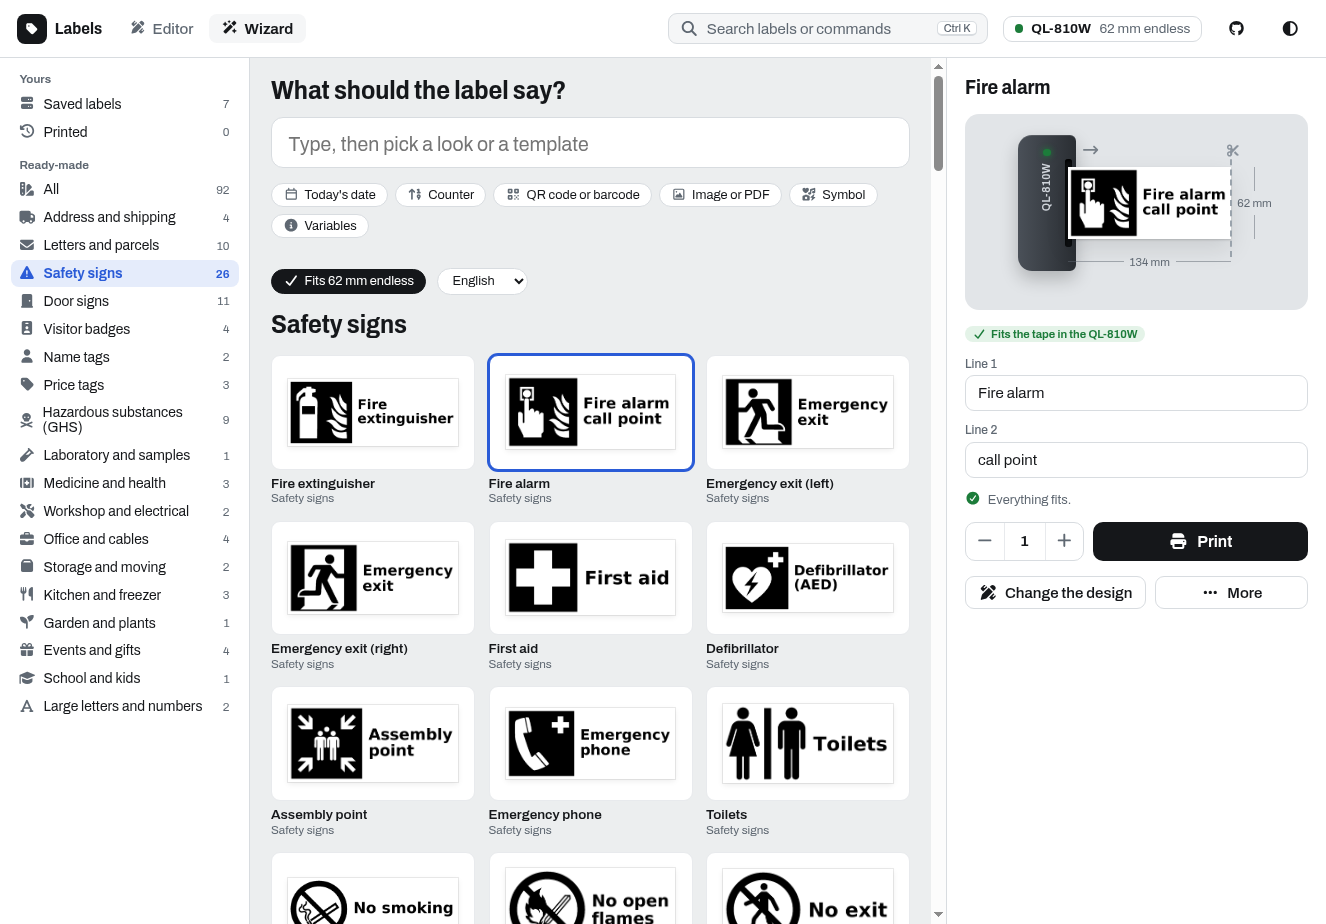
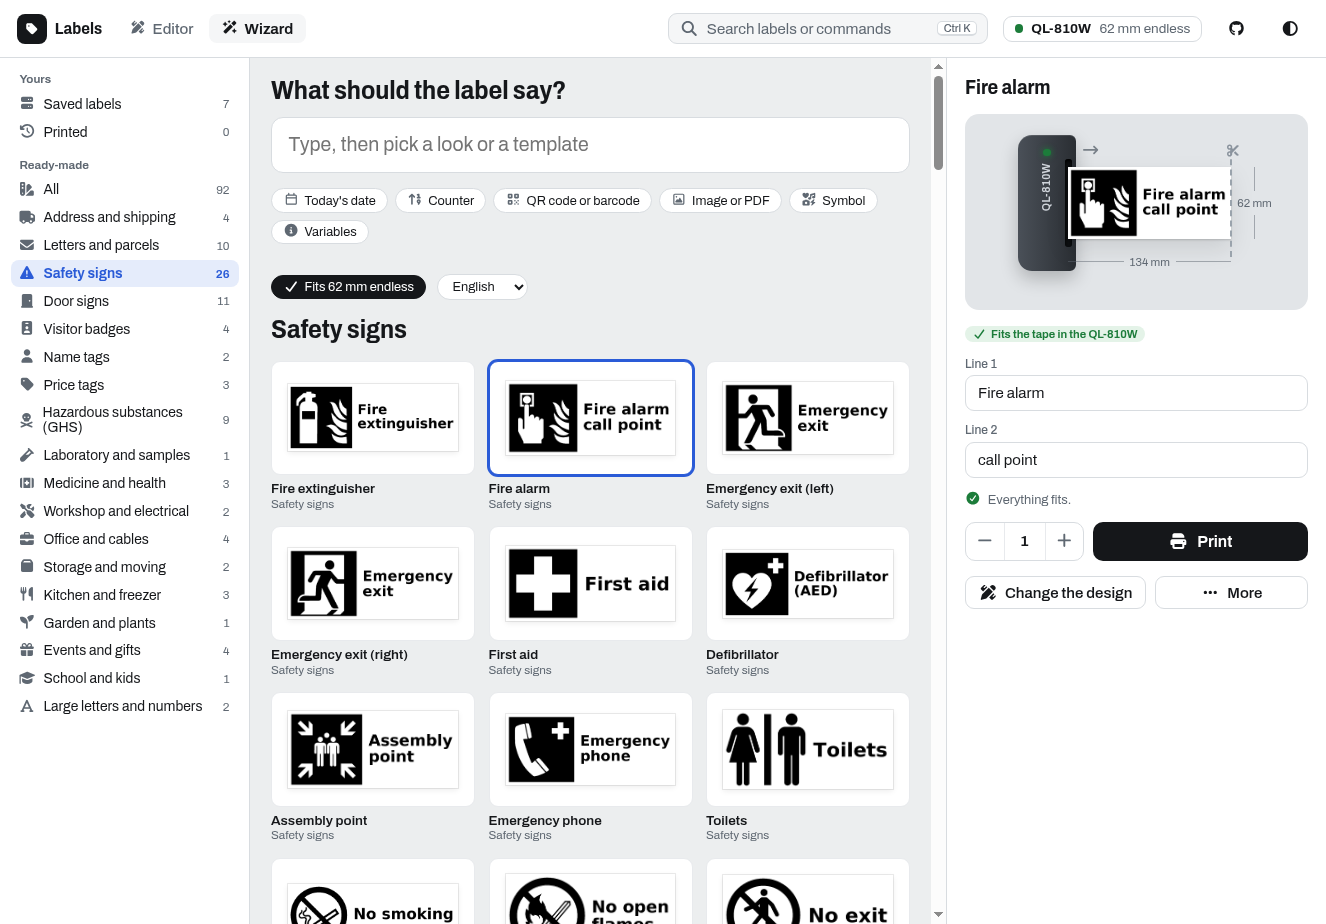
Show the direction of the text, red parts and round labels as printed
- The switch "Text runs across the tape / Along" was wrong on labels
  that are wider than long, e.g. 62 x 29 mm, and on round labels. Taking
  such a label in between turned the text on endless tape.
- Red text and frames on tape without red were shown red, but print
  black. The preview shows them black and says so, the line keeps red
  for black and red tape.
- Round labels are shown round.
- With a code alone the settings for text are off, the switch speaks of
  the code.
- The wizard counts printed and saved labels right away, and its text
  field keeps the height of its lines. On phones the printer panel
  closes from the right edge, and on short labels the arrow keeps clear
  of the scissors.

diff --git a/app/static/designer/designer.js b/app/static/designer/designer.js
@@ -223,9 +223,16 @@ function formFor(design, copies = 1, forPrint = false) {
         if (k === 'text' || k === 'image' || k === 'more_images' || k === 'fields') continue;
         fd.append(k, typeof v === 'boolean' ? (v ? '1' : '0') : String(v));
     }
+    // Without red on the tape red parts print black, the preview shows that
+    const red = redTape(design);
+    if (!red) {
+        fd.set('border_color', 'black');
+        fd.set('print_color', 'black');
+        if (['red_and_black', 'colored'].includes(design.image_mode)) fd.set('image_mode', 'black_and_white');
+    }
     fd.append('text', JSON.stringify(design.text.map(l => ({
         text: l.text, size: String(l.size), font: l.font, align: l.align, inverted: !!l.inverted,
-        checkbox: !!l.checkbox, color: l.color || 'black', line_spacing: String(l.line_spacing || '100')
+        checkbox: !!l.checkbox, color: red ? l.color || 'black' : 'black', line_spacing: String(l.line_spacing || '100')
     }))));
     if (design.image && design.print_type === 'image') {
         // The preview shows the first image, all of them are printed
@@ -429,13 +436,28 @@ const saveHistory = () => {
     store('designer_history', S.history);
 };
 
-// Endless labels run along the tape when rotated, die-cut labels are
-// landscape (along the tape) in the standard orientation
+// Wide labels, e.g. for a code next to text: endless tape rotated, die-cut
+// labels in the standard orientation, which the server makes landscape
 const isDieCut = id => !!SIZES[id] && !isEndless(SIZES[id]);
-const isAlong = d => d.orientation === (isDieCut(d.label_size) ? 'standard' : 'rotated');
-function setAlong(d, along) {
-    d.orientation = along === isDieCut(d.label_size) ? 'standard' : 'rotated';
+function setWide(d, wide) {
+    d.orientation = wide === isDieCut(d.label_size) ? 'standard' : 'rotated';
     return d;
+}
+// Whether the text runs along the tape, as the editor shows it: standard
+// puts it along the longer side of the label, which is across the tape on
+// endless tape and e.g. on 62 x 29 mm labels
+const longAlongTape = id => !!SIZES[id] && SIZES[id].tape[1] > SIZES[id].tape[0];
+const runsAlong = d => (d.orientation === 'standard') === longAlongTape(d.label_size);
+function setRunsAlong(d, along) {
+    d.orientation = along === longAlongTape(d.label_size) ? 'standard' : 'rotated';
+    return d;
+}
+// Another label size: die-cut labels start wide, on endless tape the text
+// keeps its direction
+function setSize(d, id) {
+    const along = runsAlong(d);
+    d.label_size = id;
+    return isDieCut(id) ? setWide(d, true) : setRunsAlong(d, along);
 }
 
 function fitsTape(sizeId) {
@@ -512,9 +534,7 @@ async function printJob(job) {
         const choice = await tapeGuard(job);
         if (choice === 'cancel') return false;
         if (choice === 'adapt') {
-            // Die-cut labels are landscape by default
-            const along = isDieCut(S.tape) || isAlong(job.design);
-            job = Object.assign({}, job, { design: setAlong(Object.assign(clone(job.design), { label_size: S.tape }), along) });
+            job = Object.assign({}, job, { design: setSize(clone(job.design), S.tape) });
         }
     }
     const entry = {
@@ -524,6 +544,7 @@ async function printJob(job) {
     };
     S.history.unshift(entry);
     saveHistory();
+    updateCounts();
     toast(`Printing ${entry.copies} ${entry.copies === 1 ? 'label' : 'labels'}...`);
     try {
         const r = await post('/print', formFor(fillBlanks(job.design, job.values, false), entry.copies, true));
@@ -636,6 +657,14 @@ async function loadSaved() {
         const data = await r.json();
         S.saved = (data.files || []).map(f => ({ name: f.name, title: f.title || f.name.replace(/\.json$/i, '').replace(/[-_]/g, ' '), size: f.label_size_id, mtime: f.mtime }));
     } catch (e) { S.saved = []; }
+    updateCounts();
+}
+// The numbers next to "Saved labels" and "Printed" in the wizard
+function updateCounts() {
+    for (const [cat, n] of [['saved', S.saved.length], ['printed', S.history.length]]) {
+        const el = $(`.lib-nav [data-cat="${cat}"] .n`);
+        if (el) el.textContent = n;
+    }
 }
 // The file name the server gives a label (like werkzeug's secure_filename)
 function serverName(title) {
@@ -830,7 +859,10 @@ async function showOnStage(el, design, values, onWarning, blank = false) {
     const maxW = Math.max(140, box.width - 110 - (side ? 70 : 0)), maxH = Math.max(110, Math.min(440, window.innerHeight * .5) - (side ? 0 : 60));
     const k = Math.min(0.85, maxW / w, maxH / h);
     const dw = Math.round(w * k), dh = Math.round(h * k);
-    el.className = 'stage' + (side ? ' side' : '') + (isEndless(size) ? '' : ' diecut');
+    // Short labels keep the arrow clear of the scissors at the cut
+    const short = side ? dw : dh;
+    el.className = 'stage' + (side ? ' side' : '') + (isEndless(size) ? '' : ' diecut') + (size.form === 'round_die_cut' ? ' round' : '')
+        + (short < 30 ? ' tiny' : short < 50 ? ' short' : '');
     // The front of the printer with its exit slot, its name and status light
     const st = printerState(S.printer);
     const led = `<span class="led ${st.cls}" title="${esc(st.text)}"></span>`;
@@ -853,6 +885,9 @@ function layoutProblem(d) {
     if (d && size && !isEndless(size) && d.print_type === 'qrcode_text' && Math.min(size.dots[0], size.dots[1]) < 600) {
         return 'On this die-cut label the text gets no room next to the code. Use endless tape or a larger label.';
     }
+    const redParts = (d.print_type !== 'qrcode' && d.text.some(l => l.color === 'red')) || (d.border_color === 'red' && frameOf(d) !== 'none')
+        || (d.print_type === 'image' && ['red_and_black', 'colored'].includes(d.image_mode));
+    if (redParts && !redTape(d)) return 'This tape has no red, the red parts print black.';
     return '';
 }
 
@@ -900,7 +935,7 @@ const LOOKS = [
             // Without content of its own the code holds the printed text,
             // with the same date, counter and ID
             Object.assign(d, { print_type: 'qrcode_text', code_text: '', qrcode_size: '14', margin_left: '30', margin_right: '30' });
-            setAlong(d, true);
+            setWide(d, true);
             d.text = lines.map((t, i) => L(t, i ? 60 : 100, i === 0, 'left'));
         }
     }
@@ -1021,7 +1056,7 @@ function bindWizardChips(ta) {
     $('#wzSym').onclick = () => openSymbols(ta);
     $('#wzVars').onclick = () => toggleVars($('#wzVars'), $('#wzVarsBox'));
     $('#wzCode').onclick = () => openEditor({ title: 'New label', design: Object.assign(lookDesign(5), { text: wizardLines().length ? lookDesign(5).text : [L('Text', 100, true, 'left')], code_text: wizardLines().length ? '' : 'https://example.com' }) });
-    $('#wzImage').onclick = () => openEditor({ title: 'New label', design: setAlong(Object.assign(baseDesign(S.tape), { print_type: 'image', text: wizardLines().map((t, i) => L(t, i ? 60 : 90, i === 0, 'left')) }), true) });
+    $('#wzImage').onclick = () => openEditor({ title: 'New label', design: setWide(Object.assign(baseDesign(S.tape), { print_type: 'image', text: wizardLines().map((t, i) => L(t, i ? 60 : 90, i === 0, 'left')) }), true) });
 }
 
 function insertAt(input, text, padded = true) {
@@ -1398,7 +1433,7 @@ function linksDialog(m) {
     const blanks = blanksOf(m.design);
     const url = `${location.origin}${location.pathname}#fill/${encodeURIComponent(m.id)}`;
     const example = blanks.length ? `${url}?${encodeURIComponent(blanks[0])}=${encodeURIComponent(blanks[0] === 'What' ? 'Chili' : 'Example')}` : url;
-    const sticker = setAlong(Object.assign(baseDesign(S.tape), {
+    const sticker = setWide(Object.assign(baseDesign(S.tape), {
         print_type: 'qrcode_text', code_text: url, qrcode_size: '12', margin_left: '30', margin_right: '30',
         text: [L('Scan to print a', 56, false, 'left'), L(m.title + ' label', 84, true, 'left')]
     }), true);
@@ -1496,8 +1531,8 @@ function renderEditor() {
             <div class="block"><div class="block-h"><i class="fa-solid fa-ruler-combined"></i>Label</div>
                 <div class="block-b">
                     <div><label class="label-s" for="edSize">Tape</label>${tapeNote(d)}<select class="field" id="edSize">${sizeOptions(d.label_size, s => `${esc(sizeName(s.id))}${s.id === S.tape ? ' (in the printer)' : ''}`)}</select></div>
-                    <div><span class="label-s">Text runs</span><div class="seg"><button type="button" data-along="0" class="${isAlong(d) ? '' : 'on'}">Across the tape</button><button type="button" data-along="1" class="${isAlong(d) ? 'on' : ''}">Along</button></div></div>
-                    <div><span class="label-s">Text that does not fit</span><div class="seg"><button type="button" data-shrink="1" class="${d.shrink_text === '1' ? 'on' : ''}">Shrink it</button><button type="button" data-shrink="0" class="${d.shrink_text === '1' ? '' : 'on'}">Keep the size</button></div></div>
+                    <div><span class="label-s">${hasText ? 'Text' : 'Code'} runs</span><div class="seg"><button type="button" data-along="0" class="${runsAlong(d) ? '' : 'on'}">Across the tape</button><button type="button" data-along="1" class="${runsAlong(d) ? 'on' : ''}">Along</button></div></div>
+                    <div${hasText ? '' : ' title="Only with text"'}><span class="label-s${hasText ? '' : ' off'}">Text that does not fit</span><div class="seg">${[['1', 'Shrink it'], ['0', 'Keep the size']].map(([v, n]) => `<button type="button" data-shrink="${v}" class="${(d.shrink_text === '1') === (v === '1') ? 'on' : ''}"${hasText ? '' : ' disabled'}>${n}</button>`).join('')}</div></div>
                     <div class="group">
                         <div><span class="label-s">Frame</span><div class="seg">${[['none', 'None'], ['square', 'Square'], ['rounded', 'Rounded']].map(([v, n]) => `<button type="button" data-frame="${v}" class="${frameOf(d) === v ? 'on' : ''}">${n}</button>`).join('')}</div></div>
                         ${frameOf(d) === 'none' ? '' : frameDetails(d)}
@@ -1654,7 +1689,7 @@ function lineRow(l, i, main, families, red) {
             <button class="mini" type="button" data-act="align" title="Alignment: ${esc(l.align || 'center')}"><i class="fa-solid fa-${al}"></i></button>
             <button class="mini${l.inverted ? ' on' : ''}" type="button" data-act="invert" title="White on black"><i class="fa-solid fa-circle-half-stroke"></i></button>
             <button class="mini${l.checkbox ? ' on' : ''}" type="button" data-act="todo" title="To-do box in front"><i class="fa-regular fa-square-check"></i></button>
-            <button class="mini red-sw${l.color === 'red' ? ' on' : ''}" type="button" data-act="red" title="${red || l.color === 'red' ? 'Red text' : 'Red text needs black and red tape'}"${red || l.color === 'red' ? '' : ' disabled'}><span></span></button>
+            <button class="mini red-sw${l.color === 'red' ? ' on' : ''}${l.color === 'red' && !red ? ' nored' : ''}" type="button" data-act="red" title="${red ? 'Red text' : l.color === 'red' ? 'This tape has no red, the line prints black' : 'Red text needs black and red tape'}"${red || l.color === 'red' ? '' : ' disabled'}><span></span></button>
             <label class="mini-wrap${spacing !== 100 ? ' on' : ''}" title="Line spacing"><i class="fa-solid fa-text-height"></i><select class="mini lsp" aria-label="Line spacing of line ${i + 1}">${SPACINGS.concat(SPACINGS.includes(spacing) ? [] : [spacing]).map(v => `<option value="${v}"${v === spacing ? ' selected' : ''}>${v} %</option>`).join('')}</select></label>
         </div></div>`;
 }
@@ -1786,7 +1821,7 @@ function bindEditor() {
         // Next to text, a code without content of its own holds the text
         if (lay === 'code' && !d.code_text) d.code_text = (d.text[0] && d.text[0].text) || 'https://example.com';
         if (lay === 'codetext' && !d.code_text && !hasTextLines(d)) d.code_text = 'https://example.com';
-        if (lay === 'codetext' || lay === 'image') { setAlong(d, true); d.text.forEach(l => { if (l.align === 'center') l.align = 'left'; }); }
+        if (lay === 'codetext' || lay === 'image') { setWide(d, true); d.text.forEach(l => { if (l.align === 'center') l.align = 'left'; }); }
         if (lay === 'codetext' && d.qrcode_size === '10') d.qrcode_size = '14';
         if (lay !== 'code' && !d.text.length) d.text.push(L('Text', 80, true, 'left'));
         renderEditor();
@@ -1840,9 +1875,9 @@ function bindEditor() {
             renderEditor();
         });
     });
-    if ($('#edUseTape')) $('#edUseTape').onclick = () => { const along = isDieCut(S.tape) || isAlong(d); d.label_size = S.tape; setAlong(d, along); renderEditor(); };
-    $('#edSize').onchange = e => { const along = isDieCut(e.target.value) || isAlong(d); d.label_size = e.target.value; setAlong(d, along); renderEditor(); };
-    $$('[data-along]').forEach(b => b.onclick = () => { setAlong(d, b.dataset.along === '1'); renderEditor(); });
+    if ($('#edUseTape')) $('#edUseTape').onclick = () => { setSize(d, S.tape); renderEditor(); };
+    $('#edSize').onchange = e => { setSize(d, e.target.value); renderEditor(); };
+    $$('[data-along]').forEach(b => b.onclick = () => { setRunsAlong(d, b.dataset.along === '1'); renderEditor(); });
     $$('[data-frame]').forEach(b => b.onclick = () => { setFrame(d, b.dataset.frame); renderEditor(); });
     $$('[data-shrink]').forEach(b => b.onclick = () => { d.shrink_text = b.dataset.shrink; renderEditor(); });
     // Code
@@ -1897,7 +1932,7 @@ function bindEditor() {
             storeQuiet('designer_edit', S.edit);
             $('#edSave').innerHTML = '<i class="fa-regular fa-bookmark"></i><span class="lbl">Save</span>';
             $('#edSave').title = 'Save';
-            toast(over ? `Saved "${E.title}"` : `"${E.title}" is now one of your saved labels`, { label: 'Fill in and print', run: () => { location.hash = 'fill/' + encodeURIComponent(name); } });
+            toast(over ? `Saved "${E.title}"` : `"${E.title}" is now one of your saved labels`, { label: blanksOf(E.design).length ? 'Fill in and print' : 'Open in the wizard', run: () => { location.hash = 'fill/' + encodeURIComponent(name); } });
         } catch (e) { toast(e.message); }
     };
 }

diff --git a/app/static/designer/designer.css b/app/static/designer/designer.css
@@ -188,10 +188,14 @@ input[type=range] { width: 100%; accent-color: var(--ink); }
 .stage .flow { position: absolute; color: var(--muted); font-size: .9rem; opacity: .8; }
 .stage:not(.side) .flow { left: -1.6rem; top: 14px; }
 .stage.side .flow { top: -1.6rem; left: 14px; }
+.stage.short:not(.side) .flow { top: 0; }
+.stage.short.side .flow { left: 0; }
+.stage.tiny .flow { display: none; }
 .stage .paper { background: #fff; line-height: 0; box-shadow: 0 1px 2px rgba(0, 0, 0, .18), 0 10px 24px rgba(0, 0, 0, .1); }
 .stage .paper img { display: block; width: 100%; height: auto; }
 .stage .paper .blank-paper { width: 100%; background: #fff; }
 .stage.diecut .paper { border-radius: 6px; overflow: hidden; }
+.stage.round .paper { border-radius: 50%; }
 .stage .cut { position: absolute; left: -18px; right: -18px; bottom: -1px; border-bottom: 2px dashed #9aa3ac; }
 .stage .cut i { position: absolute; left: -4px; top: -.55rem; font-size: .8rem; color: #8a939d; transform: rotate(-90deg); }
 .stage.side .cut { left: auto; top: -18px; bottom: -18px; right: -1px; border-bottom: 0; border-right: 2px dashed #9aa3ac; }
@@ -236,6 +240,8 @@ img[data-lazy]:not([src]) { visibility: hidden; }
 .lib-nav button.on { background: var(--select-soft); color: var(--select); font-weight: 650; }
 .lib-nav button.on i, .lib-nav button.on .n { color: var(--select); }
 .lib-list { padding: 1.2rem 1.4rem 2rem; display: flex; flex-direction: column; gap: 1rem; min-width: 0; overflow: auto; }
+/* It scrolls, its parts keep their height */
+.lib-list > * { flex-shrink: 0; }
 .lib-bar { display: flex; gap: .7rem; align-items: center; flex-wrap: wrap; }
 .lib-bar select { border: 1px solid var(--line); border-radius: 999px; background: var(--surface); padding: .28rem .7rem; font-size: .85rem; }
 .typer { font-size: 1.3rem; padding: .85rem 1.1rem; border-radius: 12px; min-height: 3.4rem; overflow: hidden; margin-top: -.3rem; }
@@ -339,6 +345,8 @@ img[data-lazy]:not([src]) { visibility: hidden; }
 .mini.on { background: var(--ink); color: var(--on-ink); border-color: var(--ink); }
 /* Bold is wished, but the font has no bold style */
 .mini.on.nobold { background: transparent; color: var(--ink); border: 1px dashed var(--muted); text-decoration: line-through; }
+.mini.red-sw.on.nored { box-shadow: none; border: 1px dashed var(--muted); }
+.mini.red-sw.nored span { opacity: .45; }
 .mini.quiet { border-color: transparent; background: transparent; color: var(--muted); }
 .mini.quiet:hover { color: var(--bad); }
 input.mini { width: 2.8rem; cursor: text; -moz-appearance: textfield; }
@@ -418,6 +426,7 @@ select.mini.lsp { max-width: 4rem; }
 .sheet h2 { font-size: 1.3rem; text-align: center; }
 .sheet p { text-align: center; color: var(--muted); margin-top: -.5rem; }
 .sheet .btn-print, .sheet .btn { width: 100%; padding: .75rem; }
+.sheet .btn.icon { width: auto; }
 .toast { position: fixed; left: 50%; bottom: 1.2rem; transform: translateX(-50%); background: var(--ink); color: var(--on-ink); border-radius: 10px; padding: .6rem 1rem; font-size: .92rem; z-index: 60; box-shadow: var(--shadow); max-width: calc(100% - 2rem); }
 .pop { width: min(400px, 100%); background: var(--surface); border: 1px solid var(--line); border-radius: 14px; box-shadow: var(--shadow); padding: 1rem 1.1rem 1.1rem; }
 .pp { display: flex; flex-direction: column; gap: .9rem; text-align: left; }

diff --git a/tests/browser/test_designer.py b/tests/browser/test_designer.py
@@ -199,6 +199,14 @@ def test_settings_that_do_not_apply_are_disabled(designer):
     assert designer.is_disabled('#edThr')
 
 
+def test_code_alone_has_no_text_settings(designer):
+    type_line(designer, 0, 'Spices')
+    designer.click('[data-lay="code"]')
+    wait_for_preview(designer)
+    assert designer.is_disabled('[data-shrink="1"]')
+    assert designer.locator('.label-s:text-is("Code runs")').count() == 1
+
+
 def test_ptouch_tape_is_shown_at_180_dpi(designer):
     designer.evaluate("""() => {
         S.printer = { path: 'a', model: 'PT-E550W', media_width: 12, media_length: 0 };
@@ -214,6 +222,42 @@ def test_ptouch_tape_is_shown_at_180_dpi(designer):
     _, height = preview_size(designer)
     assert designer.inner_text('#edStage .dim-x') == '12 mm'
     assert designer.inner_text('#edStage .dim-y') == f'{round(height / 180 * 25.4)} mm'
+
+
+def test_switch_shows_how_the_text_runs_on_the_tape(designer):
+    def runs():
+        wait_for_preview(designer)
+        return designer.inner_text('[data-along].on')
+    type_line(designer, 0, 'Spices')
+    assert runs() == 'Across the tape'
+    # 62 x 29 mm labels are wider than long, standard is across the tape
+    designer.select_option('#edSize', '62x29')
+    assert runs() == 'Across the tape'
+    designer.click('[data-along="1"]')
+    assert runs() == 'Along'
+    assert designer.evaluate('() => S.edit.design.orientation') == 'rotated'
+    designer.select_option('#edSize', '29x90')
+    assert runs() == 'Along'
+    # Round labels are shown round, endless tape keeps the direction of the text
+    designer.select_option('#edSize', 'd24')
+    assert runs() == 'Across the tape'
+    assert 'round' in designer.get_attribute('#edStage', 'class')
+    designer.select_option('#edSize', '62')
+    assert runs() == 'Across the tape'
+
+
+def test_red_prints_black_on_tape_without_red(designer):
+    type_line(designer, 0, 'Danger')
+    designer.select_option('#edSize', '62red')
+    wait_for_preview(designer)
+    designer.click('[data-row="0"] [data-act="red"]')
+    wait_for_preview(designer)
+    designer.select_option('#edSize', '62')
+    wait_for_preview(designer)
+    assert 'red parts print black' in fits_note(designer)
+    assert 'nored' in designer.get_attribute('[data-row="0"] [data-act="red"]', 'class')
+    assert designer.evaluate("() => JSON.parse(formFor(S.edit.design).get('text'))[0].color") == 'black'
+    assert designer.evaluate('() => S.edit.design.text[0].color') == 'red'
 
 
 def test_distance_between_code_and_text(designer):
@@ -484,6 +528,19 @@ def test_look_with_blanks_asks_for_them_before_printing(designer):
     designer.keyboard.press('Enter')
     designer.wait_for_function("() => S.libSel && S.libSel.id === 'look5'")
     wait_for_preview(designer, '#libStage')
+
+
+def test_wizard_counts_what_was_printed(designer, monkeypatch, tmp_path):
+    monkeypatch.setattr('app.labeldesigner.printer.SIMULATED_LABELS_DIR', str(tmp_path))
+    designer.click('[data-tab="wizard"]')
+    designer.click('.lib-nav [data-cat="all"]')
+    designer.fill('#wzText', 'Shelf\nTools')
+    designer.wait_for_function("() => document.querySelectorAll('#fzLooks .tile').length === 6")
+    # Two lines stay visible above the long list
+    assert designer.evaluate("() => { const t = document.getElementById('wzText'); return t.scrollHeight <= t.clientHeight; }")
+    designer.click('#fzLooks [data-plook="0"]')
+    assert printed(designer) == ['printed']
+    assert designer.inner_text('.lib-nav [data-cat="printed"] .n') == '1'
 
 
 def test_search_finds_labels_and_commands(designer):
